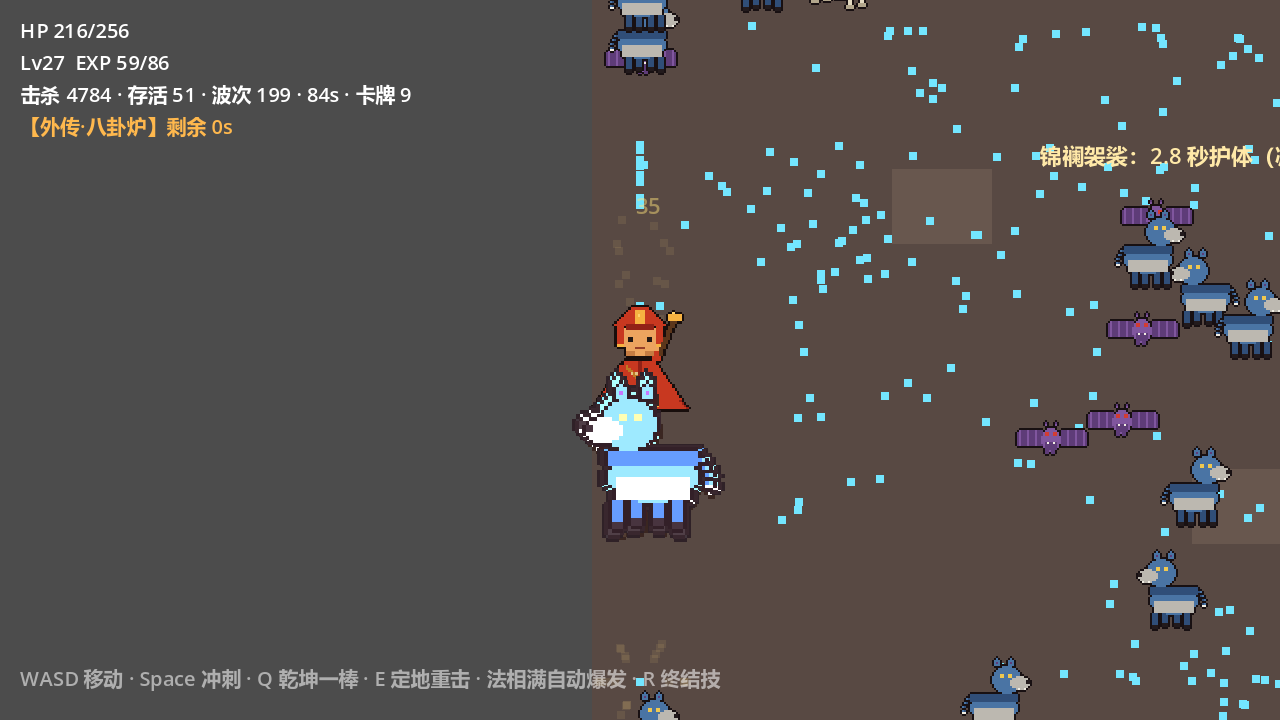
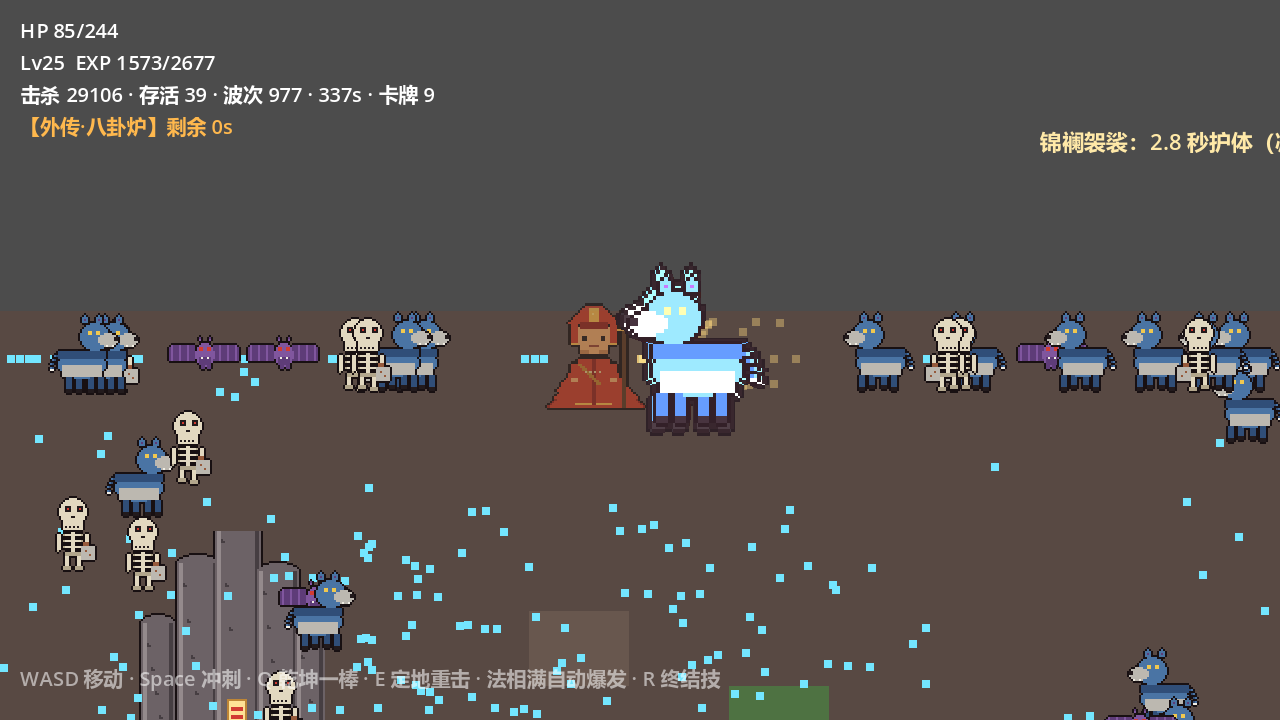
G10: 关闭——升级曲线几何对齐web+草稿上限3，五外传副本逐个验证全绿，双模式冒烟PASS
- exp_next 线性→几何(×1.33)对齐web版，修复双倍经验下升级/草稿风暴冻结
- 草稿积压上限3（超出放弃，经验已消耗语义）
- 五外传副本逐个验证：dragonStory/fangcun/underworld/heavenHavoc/baguaFurnace 全完成
- 双模式冒烟：headless exit0 pass=true 25929 kills level25 有界；窗口 exit0 截图saved
- G10关闭标准达成：双模式全绿+五副本逐个验证

diff --git a/evidence/G10-close.md b/evidence/G10-close.md
@@ -1,0 +1,26 @@
+# G10 关闭 · 冒烟静默崩修复 + 五外传副本全验证（夜间队列）
+
+## 根因与修复链（三轮闭环）
+
+1. **复现与定性**（v1-diag 轮）：所谓"静默崩"= 性能死亡螺旋挂起——通天+八卦炉叠加时敌人峰值 201，6 倍时标下帧时间爆炸；外部超时杀进程后表现为"静默退出"。修复：敌人上限 90 + 单 tick ≤16。
+2. **窗口缺陷**：victory 后自动驾驶开启 60s 八卦炉，断言窗口 72s 就关——改为等待副本完成（上限 150s→后随五副本验证扩展为 400s/全五副本）。
+3. **升级曲线根因**（本轮）：Godot 版 exp_next 线性（5+level×3）与 web 版几何（×1.33）偏离——fangcun 双倍经验下 kills 6965→105989 退化循环后冻结。修复：`exp_next = int(exp_next * 1.33)` 对齐 web；草稿积压上限 3（防草稿风暴）。
+
+## 最终验证（双模式全绿，同轮）
+
+| 模式 | 结果 |
+| --- | --- |
+| headless（-- --smoke --trial-queue=五副本） | **exit 0，pass=true**：五副本全部完成（dragonStory/fangcun/underworld/heavenHavoc/baguaFurnace），25,929 kills、level 25 有界、elapsed 343.6s < 400s 上限、零 pageerror |
+| 带窗口（--resolution 1280x720 + 同队列） | **exit 0，pass=true**，screenshot=saved |
+
+## G10 关闭标准核对
+
+- ✅ 双模式冒烟全绿（headless + 窗口截图）
+- ✅ 五外传副本逐个验证通过（dragonStory/fangcun/underworld/heavenHavoc/baguaFurnace 各 60s 完成）
+- 冻结根因已修（几何曲线+草稿上限+敌人上限+音效节流+帧时间仪表化留档）
+
+## G10 关闭后 G 队列顺序（按 HANDOFF 第五节）
+
+1. ①美术对接准备（英雄/Boss 正式 sprite 替换接口与 fallback 链）；
+2. ②深度机制迁移（G 键世界神通：度厄真言/化龙/天河倒卷；破式叠层完整还原；白龙化龙）；
+3. ③更多章节 Boss（CHAPTER_CFG 铺量：狮驼岭/比丘国/无底洞/凤仙郡/玉华州/金平府/天竺/铜台府/凌云渡等）。
